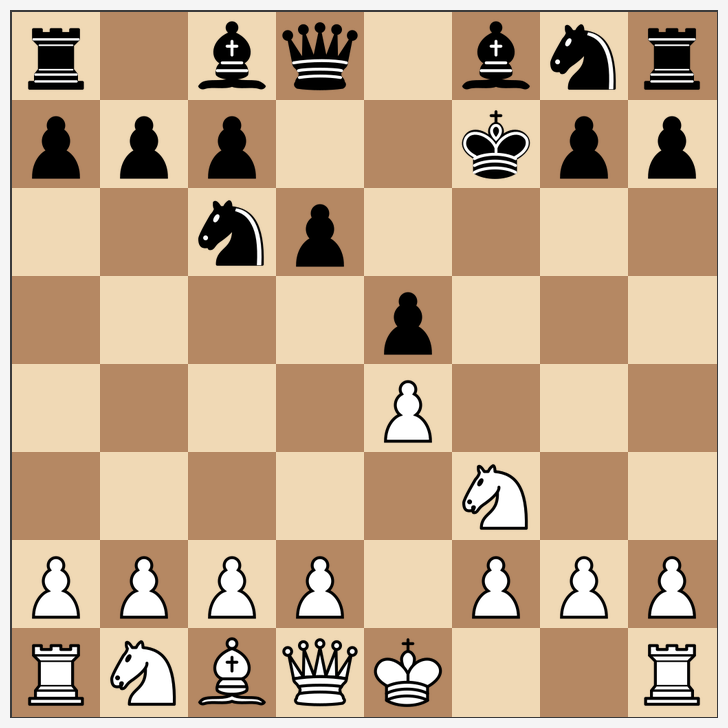
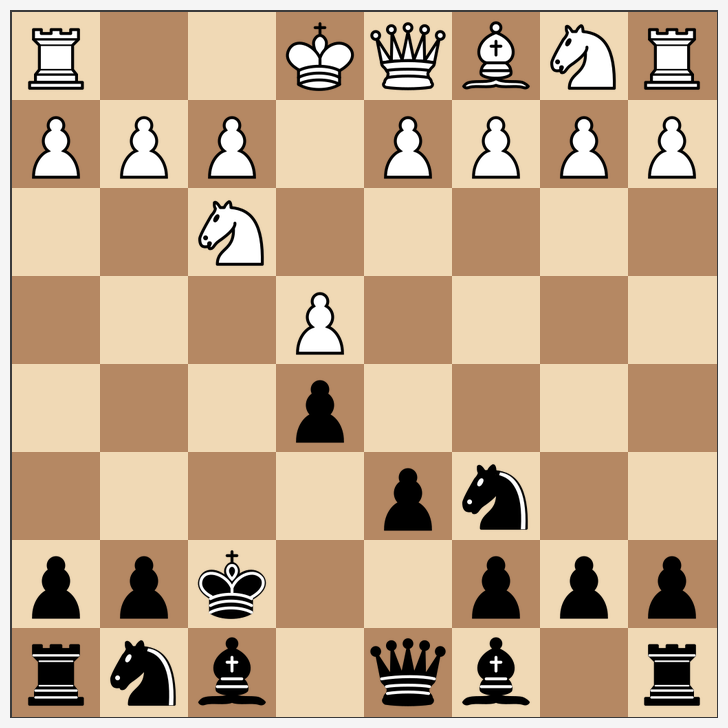
Flip black-side line thumbnails to black perspective

diff --git a/scripts/generate_missing_thumbnails.py b/scripts/generate_missing_thumbnails.py
@@ -1,11 +1,11 @@
+import argparse
 import csv
 import io
-import os
 from pathlib import Path
 
-import requests
 import chess
 import chess.pgn
+import requests
 from PIL import Image, ImageDraw
 
 OPENINGS_CSV = "https://docs.google.com/spreadsheets/d/e/2PACX-1vQNmZYrVE9U7BynLzoijjgIVSd6Mm2zP_blPqogiQ8zcmvFz4LJi7ADUiM6vdbyc1HZ9oHMBhUR4AHT/pub?gid=0&single=true&output=csv"
@@ -37,6 +37,15 @@ PIECE_MAP = {
     "q": "black-queen.png",
     "k": "black-king.png",
 }
+
+
+def parse_args():
+    parser = argparse.ArgumentParser(description="Generate ChessGym thumbnails for missing or selected lines/openings.")
+    parser.add_argument("--refresh-lines", choices=["missing", "all"], default="missing")
+    parser.add_argument("--line-ids", default="", help="Comma-separated line_id list to regenerate (overwrites existing).")
+    parser.add_argument("--skip-lines", action="store_true")
+    parser.add_argument("--skip-openings", action="store_true")
+    return parser.parse_args()
 
 
 def fetch_openings():
@@ -72,9 +81,13 @@ def board_at_mid_position(start_fen: str, moves_pgn: str):
         if mv in board.legal_moves:
             board.push(mv)
         else:
-            # fallback: stop safely if corrupted line
             break
     return board
+
+
+def is_black_study(row):
+    side = (row.get("drill_side") or "").strip().lower()
+    return side.startswith("b")
 
 
 def load_piece_images():
@@ -86,11 +99,10 @@ def load_piece_images():
     return out
 
 
-def render_board_png(board: chess.Board, out_path: Path, piece_imgs):
+def render_board_png(board: chess.Board, out_path: Path, piece_imgs, flip=False):
     img = Image.new("RGB", (CANVAS_SIZE, CANVAS_SIZE), (245, 245, 245))
     draw = ImageDraw.Draw(img)
 
-    # border
     draw.rectangle([MARGIN - 2, MARGIN - 2, MARGIN + BOARD_SIZE + 1, MARGIN + BOARD_SIZE + 1], outline=BORDER, width=2)
 
     for rank in range(8):
@@ -100,7 +112,11 @@ def render_board_png(board: chess.Board, out_path: Path, piece_imgs):
             color = LIGHT if (rank + file) % 2 == 0 else DARK
             draw.rectangle([x0, y0, x0 + SQUARE, y0 + SQUARE], fill=color)
 
-            sq = chess.square(file, 7 - rank)
+            if flip:
+                sq = chess.square(7 - file, rank)
+            else:
+                sq = chess.square(file, 7 - rank)
+
             piece = board.piece_at(sq)
             if piece:
                 pimg = piece_imgs[piece.symbol()]
@@ -110,46 +126,56 @@ def render_board_png(board: chess.Board, out_path: Path, piece_imgs):
 
 
 def main():
+    args = parse_args()
+
     THUMB_DIR.mkdir(parents=True, exist_ok=True)
     openings = fetch_openings()
     lines = fetch_lines()
     existing = existing_thumbnail_ids()
     piece_imgs = load_piece_images()
 
-    # Missing line thumbnails
-    missing_lines = []
-    for row in lines:
-        line_id = (row.get("line_id") or "").strip()
-        if not line_id:
-            continue
-        if line_id in existing:
-            continue
-        missing_lines.append(row)
+    selected_line_ids = {item.strip() for item in args.line_ids.split(",") if item.strip()}
+    known_line_ids = {(row.get("line_id") or "").strip() for row in lines}
+    unknown_selected = sorted(selected_line_ids - known_line_ids)
+    if unknown_selected:
+        print(f"Warning: unknown line_ids ignored: {', '.join(unknown_selected)}")
 
-    # Missing opening thumbnails (opening_id names)
-    missing_openings = []
-    for row in openings:
-        opening_id = (row.get("opening_id") or "").strip()
-        if not opening_id:
-            continue
-        if opening_id in existing:
-            continue
-        missing_openings.append(row)
+    target_lines = []
+    if not args.skip_lines:
+        for row in lines:
+            line_id = (row.get("line_id") or "").strip()
+            if not line_id:
+                continue
+            if selected_line_ids:
+                if line_id in selected_line_ids:
+                    target_lines.append(row)
+            elif args.refresh_lines == "all" or line_id not in existing:
+                target_lines.append(row)
 
-    print(f"Missing line thumbnails: {len(missing_lines)}")
-    print(f"Missing opening thumbnails: {len(missing_openings)}")
+    target_openings = []
+    if not args.skip_openings:
+        for row in openings:
+            opening_id = (row.get("opening_id") or "").strip()
+            if not opening_id:
+                continue
+            if opening_id not in existing:
+                target_openings.append(row)
+
+    print(f"Line thumbnails to render: {len(target_lines)}")
+    print(f"Opening thumbnails to render: {len(target_openings)}")
 
     created = 0
     failed = []
 
-    for row in missing_lines:
+    for row in target_lines:
         line_id = row["line_id"].strip()
         try:
             board = board_at_mid_position(row.get("start_fen", ""), row.get("moves_pgn", ""))
             out_path = THUMB_DIR / f"{line_id}.png"
-            render_board_png(board, out_path, piece_imgs)
+            flip = is_black_study(row)
+            render_board_png(board, out_path, piece_imgs, flip=flip)
             created += 1
-            print(f"+ line {line_id}")
+            print(f"+ line {line_id} ({'black' if flip else 'white'} view)")
         except Exception as exc:
             failed.append((line_id, str(exc)))
             print(f"! line {line_id}: {exc}")
@@ -157,34 +183,27 @@ def main():
     lines_by_opening = {}
     for row in lines:
         opening_id = (row.get("opening_id") or "").strip()
-        if not opening_id:
-            continue
-        lines_by_opening.setdefault(opening_id, []).append(row)
+        if opening_id:
+            lines_by_opening.setdefault(opening_id, []).append(row)
 
     def line_complexity(row):
         return len(parse_game(row.get("moves_pgn", "")))
 
-    for opening in missing_openings:
+    for opening in target_openings:
         opening_id = opening["opening_id"].strip()
         try:
-            candidates = lines_by_opening.get(opening_id, [])
-            candidates = sorted(candidates, key=line_complexity, reverse=True)
+            candidates = sorted(lines_by_opening.get(opening_id, []), key=line_complexity, reverse=True)
             rep = candidates[0] if candidates else None
-
-            if rep:
-                board = board_at_mid_position(rep.get("start_fen", ""), rep.get("moves_pgn", ""))
-            else:
-                board = board_at_mid_position(opening.get("start_fen", ""), "")
-
+            board = board_at_mid_position(rep.get("start_fen", ""), rep.get("moves_pgn", "")) if rep else board_at_mid_position(opening.get("start_fen", ""), "")
             out_path = THUMB_DIR / f"{opening_id}.png"
-            render_board_png(board, out_path, piece_imgs)
+            render_board_png(board, out_path, piece_imgs, flip=False)
             created += 1
             print(f"+ opening {opening_id}")
         except Exception as exc:
             failed.append((opening_id, str(exc)))
             print(f"! opening {opening_id}: {exc}")
 
-    print(f"Created: {created}")
+    print(f"Created/updated: {created}")
     print(f"Failed: {len(failed)}")
     if failed:
         for item_id, err in failed:
